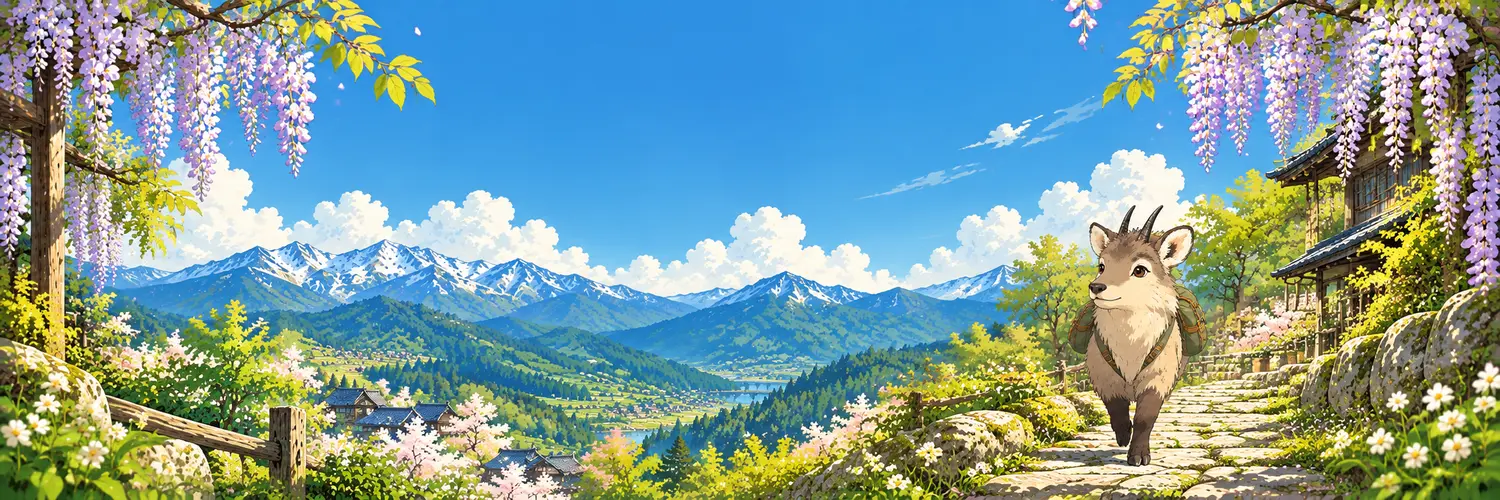
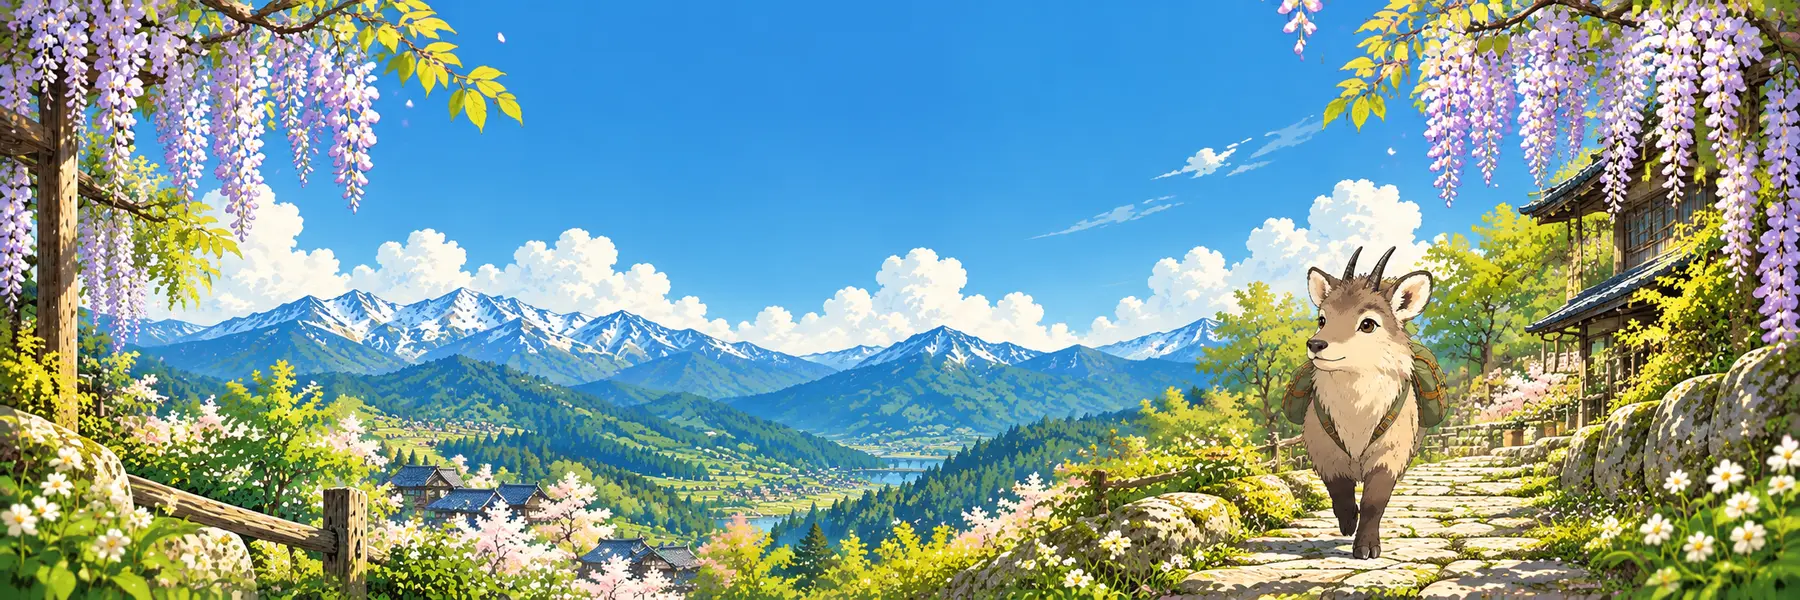
ng3: 換上新版小驚喜、天氣與春日裝飾圖包，標頭插畫完整顯示
- 小驚喜 8 張新圖（探頭與卡片配圖）
- 天氣圖依天氣代碼分晴、晴時多雲、陰、霧、小雨、雨、風、雪、雷雨；早晚偏冷另外提醒
- 裝飾改用圖包：標題兩側垂掛紫藤、主題小字旁遠山、搜尋框紫藤小枝
- 標頭插畫不再裁切；拿掉行程頁天氣卡與出發準備卡（只留在指南頁）
- 日期列只留日期與星期

Claude-Session: https://claude.ai/code/session_01PcAh1eZtA4ZhN7KdjXudwF

diff --git a/app.js b/app.js
@@ -1474,13 +1474,12 @@ document.addEventListener('visibilitychange',()=>{
 
 function renderDayChips(){
   const today=tripTodayIndex();
-  dayScroll.innerHTML = `<button type="button" class="day-chip ng-today${today>=0?' live':''}" onclick="goToToday()"><div class="d">今日</div><div class="m">${today>=0?'D'+days[today].dayNum:'—'}</div></button>`
-    +days.map((d,i)=>!inPlan(i)?'':`<button type="button" class="day-chip ${i===activeDay?'active':''} ${i===today?'is-today':''}" data-i="${i}" onclick="setActiveDay(${i})" aria-pressed="${i===activeDay}"><div class="d">${d.date}</div><div class="m">D${d.dayNum}・週${d.weekday}</div></button>`).join('');
+  dayScroll.innerHTML = `<button type="button" class="day-chip ng-today${today>=0?' live':''}" onclick="goToToday()"><div class="d">今日</div><div class="m">${today>=0?days[today].date:'—'}</div></button>`
+    +days.map((d,i)=>!inPlan(i)?'':`<button type="button" class="day-chip ${i===activeDay?'active':''} ${i===today?'is-today':''}" data-i="${i}" onclick="setActiveDay(${i})" aria-pressed="${i===activeDay}"><div class="d">${d.date}</div><div class="m">週${d.weekday}</div></button>`).join('');
   const act=dayScroll.querySelector('.day-chip.active');
   if(act)requestAnimationFrame(()=>{const r=act.offsetLeft-(dayScroll.clientWidth-act.offsetWidth)/2;dayScroll.scrollTo({left:Math.max(0,r),behavior:'auto'});});
   if(typeof renderMarksBar==='function'&&typeof marksStore!=='undefined')renderMarksBar();
   if(typeof renderDayTools==='function')renderDayTools();
-  if(typeof renderHomeWx==='function'&&document.getElementById('homeWx'))renderHomeWx();
 }
 
 let activeSubTabStore = {}; /* dayIdx -> 'main' | 'transport' | 'more' | 'routemap' */
@@ -1899,15 +1898,22 @@ const WMO = {
 };
 function wmoInfo(code){ return WMO[code] || ['🌡','—']; }
 /* 小羚羊天氣圖（依天氣代碼切換：晴、多雲／陰、雨） */
-const WX_IMG={clear:['sunny','晴'],cloudy:['cloudy','多雲'],overcast:['cloudy','陰'],rain:['rainy','雨']};
+const WX_IMG={sunny:['sunny','晴天'],partly:['partly-cloudy','晴時多雲'],cloudy:['cloudy','陰天'],fog:['fog','起霧'],drizzle:['drizzle','小雨'],rain:['rain','下雨'],snow:['snow','下雪'],thunder:['thunderstorm','雷雨'],wind:['wind','有風']};
 function wxKind(code,wind){
-  code=Number(code);
-  if((code>=51&&code<=67)||(code>=71&&code<=86)||code>=95)return 'rain';
-  if(code===3||code===45||code===48)return 'overcast';
-  if(code===2)return 'cloudy';
-  return 'clear';
+  code=Number(code);wind=Number(wind)||0;
+  if(code>=95)return 'thunder';
+  if([71,73,75,77,85,86].includes(code))return 'snow';
+  if([61,63,65,66,67,80,81,82].includes(code))return 'rain';
+  if(code>=51&&code<=57)return 'drizzle';
+  if(code===45||code===48)return 'fog';
+  if(wind>=30)return 'wind';
+  if(code===3)return 'cloudy';
+  if(code===2)return 'partly';
+  return 'sunny';
 }
-function wxImgHTML(code,wind,cls='wx-img'){const [f,l]=WX_IMG[wxKind(code,wind)];return `<img class="${cls}" src="images/weather/serow-${f}.webp" alt="${l}" title="${l}" width="64" height="64" loading="lazy" decoding="async">`;}
+function wxImgHTML(code,wind,cls='wx-img'){const [f,l]=WX_IMG[wxKind(code,wind)];return `<img class="${cls}" src="images/weather/weather-${f}.webp" alt="${l}" title="${l}" width="64" height="64" loading="lazy" decoding="async">`;}
+/* 早晚偏冷是溫度提醒，不取代晴雨圖：最低溫 8°C 以下時，在穿搭旁加一張 */
+function chillyHTML(min){return min!=null&&min<=8?`<img class="wx-chilly" src="images/weather/weather-chilly.webp" alt="早晚偏冷" title="早晚偏冷" width="56" height="56" loading="lazy">`:'';}
 function feelsText(cw){return cw&&cw.apparent_temperature!=null?`體感 ${Math.round(cw.apparent_temperature)}°`:'';}
 
 function getDynamicTip(temp, code) {
@@ -1963,7 +1969,6 @@ async function fetchWeatherFor(k, attempt){
     }
     clearTimeout(timeout);
     liveWeatherCache[k] = { data, error:null, stale:false, fetchedAt: Date.now() };
-    setTimeout(()=>{if(typeof renderHomeWx==='function')renderHomeWx();},0);
     saveWeatherCacheEntry(k, liveWeatherCache[k]);
   }catch(err){
     clearTimeout(timeout);
@@ -2087,7 +2092,7 @@ function renderOneLiveCity(k){
         </div>
         <div class="weather-tenki-row"><a href="${TENKI_LINKS[k]||'https://tenki.jp/'}" target="_blank" rel="noopener">開啟 tenki.jp ${CITIES[k].label}預報（逐時・10 天）</a></div>
         <div class="weather-travel-note"><b>當地提醒</b><span>${MW_TIMES[k]}</span></div>
-        <div class="weather-wear-note"><b>穿搭</b><span>${tip}</span></div>
+        <div class="weather-wear-note">${chillyHTML(data.daily&&data.daily.temperature_2m_min?Math.round(data.daily.temperature_2m_min[0]):null)}<b>穿搭</b><span>${tip}${data.daily&&data.daily.temperature_2m_min&&data.daily.temperature_2m_min[0]<=8?' 🧥 早晚偏冷，多帶一件外套。':''}</span></div>
       </div>
     </details>
   `;
@@ -2494,7 +2499,7 @@ window.addEventListener('offline', updateNetStatus);
 /* ============ Service Worker（離線快取整個網頁） ============ */
 if (navigator.serviceWorker) {
   window.addEventListener('load', () => {
-    navigator.serviceWorker.register('./sw.js?v=ng2').then(()=>navigator.serviceWorker.ready).catch(()=>{});
+    navigator.serviceWorker.register('./sw.js?v=ng3').then(()=>navigator.serviceWorker.ready).catch(()=>{});
   });
 }
 document.addEventListener('error',e=>{if(e.target?.tagName==='IMG')imageErrorFallback(e.target);},true);
@@ -2994,7 +2999,7 @@ const TENKI_LINKS={
 /* =====================================================================
    v48：收藏／預約狀態／提醒、自駕即時路況、版本與同步比對
    ===================================================================== */
-const APP_VERSION='ng2-2026-10-11';
+const APP_VERSION='ng3-2026-10-11';
 
 /* ---------- 收藏 ★／預約狀態／提醒 ---------- */
 let marksStore=(()=>{try{const v=JSON.parse(localStorage.getItem('nagano_marks'));return v&&typeof v==='object'&&!Array.isArray(v)?v:{};}catch(e){return {};}})();
@@ -3681,7 +3686,7 @@ function critterBusy(){
   return document.hidden||reducedMotion()||document.body.classList.contains('mama-open')||document.body.classList.contains('family-locked')||!!document.getElementById('formModal')||!!document.getElementById('toolsSheet')||!!document.getElementById('surpriseCard')||!!document.getElementById('spotEditModal')?.classList.contains('active');
 }
 /* ng2：角落探頭用整隻小羚羊（有道具） */
-const PEEK_IMGS=['welcome','peek','point','camera','guide','eat','shop','relaxed'].map(n=>`images/sp-${n}.webp`);
+const PEEK_IMGS=['wave','peek','gift','laugh','camera','tea','wisteria','guide'].map(n=>`images/sp-${n}.webp`);
 function pickCritter(){let img,n=0;do{img=PEEK_IMGS[Math.floor(Math.random()*PEEK_IMGS.length)];n++;}while(img===critter.last&&n<6);critter.last=img;return img;}
 function leafBurst(x,y){
   const l=critterLayer();
@@ -4527,7 +4532,7 @@ function transportAddBarHTML(dayIdx){
 }
 
 /* ---------- 新插圖用在合適的地方 ---------- */
-const SURPRISE_ART={tip:'images/sp-guide.webp',joke:'images/sp-happy.webp',care:'images/sp-relaxed.webp',photo:'images/sp-camera.webp'};
+const SURPRISE_ART={tip:'images/sp-guide.webp',joke:'images/sp-laugh.webp',care:'images/sp-tea.webp',photo:'images/sp-camera.webp'};
 (function extendArt(){
   CRITTER_IMGS.push(ART.suitcase,ART.photo,ART.heart,ART.rain,ART.search,ART.car);
 })();
@@ -4810,16 +4815,8 @@ function deleteTodo(id,skipConfirm){
 }
 /* 行程頁頂端：出發前才顯示「出發前待辦還有幾項」，點了直接跳到清單 */
 function renderTodoBanner(){
-  const host=document.getElementById('view-itinerary');if(!host)return;
-  let el=document.getElementById('todoBanner');
-  const left=todoData.filter(t=>!t.done);
-  const beforeTrip=new Date()<new Date(2027,3,24);
-  if(!beforeTrip||!left.length){el?.remove();return;}
-  const late=left.filter(t=>{const n=todoDaysLeft(t.due);return n!=null&&n<=3;}).length;
-  const home=ensureHomeCards();
-  if(!el){el=document.createElement('button');el.type='button';el.id='todoBanner';el.className='todo-banner ng-card';el.onclick=goToTodos;}
-  if(el.parentNode!==home)home.appendChild(el);
-  el.innerHTML=`<img class="ng-deco ng-deco-leaf" src="images/deco/wisteria-leaf.webp" alt="" aria-hidden="true"><span class="tb-ic"><svg viewBox="0 0 24 24" width="26" height="26" aria-hidden="true" fill="none" stroke="currentColor" stroke-width="2.6" stroke-linecap="round" stroke-linejoin="round"><path d="M5 12.5l4.5 4.5L19 7.5"/></svg></span><span class="tb-txt"><b>出發準備</b><small>還有 ${left.length} 項待辦${late?`・${late} 項快到期`:''}</small></span><img class="ng-deco ng-deco-side" src="images/deco/wisteria-side.webp" alt="" aria-hidden="true"><em>›</em>`;
+  /* ng3：出發準備只放在指南頁，行程頁不顯示提示卡 */
+  document.getElementById('todoBanner')?.remove();
 }
 function goToTodos(){const sec=document.getElementById('todoSection');if(sec)sec.open=true;setTab('guide');setTimeout(()=>document.getElementById('todoSection')?.scrollIntoView({behavior:'smooth',block:'start'}),80);}
 
@@ -4970,7 +4967,7 @@ renderRouteTimeline();
 
 /* ============ 兩版行程切換（Lomä 山湖版／藤井莊溪谷版） ============
    只換顯示哪 10 天；兩版各自的筆記、照片、自訂景點都保留，切回去還在。選擇只記在這支手機上。 */
-const MTN_SVG='<svg class="ps-mtn" viewBox="0 0 64 28" aria-hidden="true"><path d="M2 27L19 7l7 8 9-12 17 24z" fill="#C9B8E6"/><path d="M30 27l12-14 6 6 6-5 9 13z" fill="#B8A3DC"/><path d="M15 11.6L19 7l3.6 4.2-2.1-1-1.5 1.4-1.7-1.3zM31.6 7.4L35 3l3.3 4.6-1.9-.8-1.5 1.2-1.4-1.1z" fill="#fff"/></svg>';
+const MTN_SVG='<img class="ps-mtn" src="images/deco/mountains-snowcap.webp" alt="" aria-hidden="true">';
 const PLAN_GMAPS={
   loma:'https://www.google.com/maps/dir/Narita+Airport/Takasaki+Station/Fujinosakuoka+Fujioka/Nagano+Station/Lake+Nojiri/Imoriike+Myoko/Togakushi+Shrine+Chusha/Obuse/Yokohama+Station/Haneda+Airport+Terminal+3',
   fujiiso:'https://www.google.com/maps/dir/Narita+Airport/Takasaki+Station/Fujinosakuoka+Fujioka/Nagano+Station/Yamada+Onsen+Takayama+Nagano/Obuse/Togakushi+Shrine+Chusha/Yokohama+Station/Haneda+Airport+Terminal+3'
@@ -4993,39 +4990,8 @@ function setPlan(p){
   showToast(`已切換到${PLANS[p].label}`);
 }
 renderPlanSwitch();
-/* ============ ng2：首頁卡片（天氣摘要、出發準備），裝飾小山小花 ============ */
-function ensureHomeCards(){
-  let h=document.getElementById('homeCards');
-  if(!h){h=document.createElement('div');h.id='homeCards';h.className='home-cards';const v=document.getElementById('view-itinerary');const sb=v&&v.querySelector('.mobile-global-search');if(v)v.insertBefore(h,sb||v.firstChild);}
-  return h;
-}
-function homeWxDay(){const t=tripTodayIndex();return t>=0?t:(typeof activeDay==='number'&&days[activeDay]?activeDay:planDays()[0]);}
-let _homeWxFetching=false;
-function renderHomeWx(){
-  const home=ensureHomeCards();if(!home)return;
-  let el=document.getElementById('homeWx');
-  if(!el){el=document.createElement('button');el.type='button';el.id='homeWx';el.className='home-wx ng-card';el.onclick=()=>setTab('weather');home.prepend(el);}
-  const di=homeWxDay(),k=(DAY_CITIES[di]||['Nagano'])[0],c=CITIES[k]||CITIES.Nagano;
-  const e=weatherEntryFor(k),data=e&&e.data,cw=data&&data.current,dl=data&&data.daily;
-  const place=c.label.split('／')[0];
-  const when=e&&e.fetchedAt?new Date(e.fetchedAt).toLocaleString('zh-TW',{hour12:false,month:'numeric',day:'numeric',hour:'2-digit',minute:'2-digit'}):'';
-  const fresh=e&&e.fetchedAt&&!e.stale&&Date.now()-e.fetchedAt<60*60*1000;
-  const badge=cw?(fresh?'<span class="hw-badge live">即時</span>':`<span class="hw-badge">${escHtml(when)}</span>`):'<span class="hw-badge">尚未更新</span>';
-  const art=cw?wxImgHTML(cw.weather_code,cw.wind_speed_10m,'hw-art'):'<img class="hw-art" src="images/weather/serow-sunny.webp" alt="" width="64" height="64">';
-  let main,sub;
-  if(cw){
-    const [,desc]=wmoInfo(cw.weather_code);
-    main=`${escHtml(desc)} <b>${Math.round(cw.temperature_2m)}°</b>`;
-    const lo=dl&&dl.temperature_2m_min?Math.round(dl.temperature_2m_min[0]):null,hi=dl&&dl.temperature_2m_max?Math.round(dl.temperature_2m_max[0]):null;
-    const pp=dl&&dl.precipitation_probability_max&&dl.precipitation_probability_max[0]!=null?dl.precipitation_probability_max[0]:null;
-    sub=[lo!=null&&hi!=null?`${lo}° / ${hi}°`:'',pp!=null?`降雨 ${pp}%`:''].filter(Boolean).join(' · ')||(cw.apparent_temperature!=null?`體感 ${Math.round(cw.apparent_temperature)}°`:'');
-  }else{main='看看今天的天氣';sub=navigator.onLine?'讀取中…':'目前離線，連上網路後再看';}
-  el.innerHTML=`<span class="hw-pic">${art}</span><span class="hw-txt"><span class="hw-place">${escHtml(place)}天氣${badge}</span><span class="hw-main">${main}</span><span class="hw-sub">${escHtml(sub)}</span></span><img class="ng-deco ng-deco-hang" src="images/deco/wisteria-hang.webp" alt="" aria-hidden="true"><em class="hw-go">›</em>`;
-  el.setAttribute('aria-label',`${place}天氣，點了看完整天氣`);
-  const old=!e||!e.fetchedAt||Date.now()-e.fetchedAt>30*60*1000;
-  if(old&&navigator.onLine&&!_homeWxFetching){_homeWxFetching=true;fetchWeatherFor(k,0).finally(()=>{_homeWxFetching=false;});}
-}
-setTimeout(()=>{try{renderHomeWx();renderTodoBanner();}catch(e){console.warn(e)}},0);
+/* ng3：出發準備只放在指南頁，行程頁不再顯示首頁卡片 */
+setTimeout(()=>{try{renderTodoBanner();}catch(e){console.warn(e)}},0);
 
 /* hk9：單機預覽模式啟動時，把以前存在 localStorage 的 Base64 照片搬進 Cache Storage，釋放空間 */
 if(!CLOUD_CONFIGURED&&'caches' in window){

diff --git a/sw.js b/sw.js
@@ -1,11 +1,11 @@
 /* 長野春旅行程：App Shell、圖片與已瀏覽內容離線快取 */
-const CACHE_VERSION='nagano-trip-ng2';
+const CACHE_VERSION='nagano-trip-ng3';
 const SHELL_CACHE=`nagano-shell-${CACHE_VERSION}`;
 const RUNTIME_CACHE=`nagano-runtime-${CACHE_VERSION}`;
 /* 圖片快取獨立於版本：更新網站不會清掉已下載的圖片，也不必重新下載 */
 const IMAGE_CACHE='nagano-images-persist';
 const LOCAL_MEDIA_CACHE='nagano-local-media';
-const SHELL=['./', './index.html', './app.js', './style.css', './splash.css', './splash.js', './manifest.webmanifest', './config.js', './fonts/ChenYuluoyan-Thin-sub.woff2', './images/apple-touch-icon.png', './images/art-lodging.webp', './images/art-route.webp', './images/art-shopping.webp', './images/day00.webp', './images/day01.webp', './images/day02.webp', './images/day03.webp', './images/day04.webp', './images/day05.webp', './images/day06.webp', './images/day07.webp', './images/day08.webp', './images/day09.webp', './images/day10.webp', './images/day11.webp', './images/day12.webp', './images/day13.webp', './images/favicon.png', './images/header-hero.webp', './images/header.webp', './images/icon-192.png', './images/icon-512.png', './images/icon-maskable-512.png', './images/logo.webp', './images/mood-accomplished.webp', './images/mood-amazed.webp', './images/mood-happy.webp', './images/mood-rainy.webp', './images/mood-relaxed.webp', './images/mood-satisfied.webp', './images/mood-sleepy.webp', './images/mood-tired.webp', './images/nav-food.webp', './images/nav-guide.webp', './images/nav-itinerary.webp', './images/nav-lodging.webp', './images/nav-route.webp', './images/nav-shopping.webp', './images/nav-weather.webp', './images/overview-fujiiso.webp', './images/overview-loma.webp', './images/scene-day00.webp', './images/scene-day01.webp', './images/scene-day02.webp', './images/scene-day03.webp', './images/scene-day04.webp', './images/scene-day05.webp', './images/scene-day06.webp', './images/scene-day07.webp', './images/scene-day08.webp', './images/scene-day09.webp', './images/scene-day10.webp', './images/scene-day11.webp', './images/scene-day12.webp', './images/scene-day13.webp', './images/serow-camera.webp', './images/serow-guide.webp', './images/serow-peek.webp', './images/serow-point.webp', './images/serow-rainy.webp', './images/serow-satisfied.webp', './images/serow-shop.webp', './images/serow-sleepy.webp', './images/serow-welcome.webp', './images/sp-camera.webp', './images/sp-eat.webp', './images/sp-guide.webp', './images/sp-happy.webp', './images/sp-peek.webp', './images/sp-point.webp', './images/sp-relaxed.webp', './images/sp-shop.webp', './images/sp-welcome.webp', './images/splash-serow-camera.webp', './images/splash-serow-point.webp', './images/splash-serow-welcome.webp', './images/weather/serow-cloudy.webp', './images/weather/serow-rainy.webp', './images/weather/serow-sunny.webp', './images/deco/logo-serow.webp', './images/deco/wisteria-hang.webp', './images/deco/wisteria-leaf.webp', './images/deco/wisteria-side.webp'];
+const SHELL=['./', './index.html', './app.js', './style.css', './splash.css', './splash.js', './manifest.webmanifest', './config.js', './fonts/ChenYuluoyan-Thin-sub.woff2', './images/apple-touch-icon.png', './images/art-lodging.webp', './images/art-route.webp', './images/art-shopping.webp', './images/day00.webp', './images/day01.webp', './images/day02.webp', './images/day03.webp', './images/day04.webp', './images/day05.webp', './images/day06.webp', './images/day07.webp', './images/day08.webp', './images/day09.webp', './images/day10.webp', './images/day11.webp', './images/day12.webp', './images/day13.webp', './images/favicon.png', './images/header.webp', './images/icon-192.png', './images/icon-512.png', './images/icon-maskable-512.png', './images/logo.webp', './images/mood-accomplished.webp', './images/mood-amazed.webp', './images/mood-happy.webp', './images/mood-rainy.webp', './images/mood-relaxed.webp', './images/mood-satisfied.webp', './images/mood-sleepy.webp', './images/mood-tired.webp', './images/nav-food.webp', './images/nav-guide.webp', './images/nav-itinerary.webp', './images/nav-lodging.webp', './images/nav-route.webp', './images/nav-shopping.webp', './images/nav-weather.webp', './images/overview-fujiiso.webp', './images/overview-loma.webp', './images/scene-day00.webp', './images/scene-day01.webp', './images/scene-day02.webp', './images/scene-day03.webp', './images/scene-day04.webp', './images/scene-day05.webp', './images/scene-day06.webp', './images/scene-day07.webp', './images/scene-day08.webp', './images/scene-day09.webp', './images/scene-day10.webp', './images/scene-day11.webp', './images/scene-day12.webp', './images/scene-day13.webp', './images/serow-camera.webp', './images/serow-guide.webp', './images/serow-peek.webp', './images/serow-point.webp', './images/serow-rainy.webp', './images/serow-satisfied.webp', './images/serow-shop.webp', './images/serow-sleepy.webp', './images/serow-welcome.webp', './images/sp-camera.webp', './images/sp-gift.webp', './images/sp-guide.webp', './images/sp-laugh.webp', './images/sp-peek.webp', './images/sp-tea.webp', './images/sp-wave.webp', './images/sp-wisteria.webp', './images/splash-serow-camera.webp', './images/splash-serow-point.webp', './images/splash-serow-welcome.webp', './images/weather/weather-chilly.webp', './images/weather/weather-cloudy.webp', './images/weather/weather-drizzle.webp', './images/weather/weather-fog.webp', './images/weather/weather-partly-cloudy.webp', './images/weather/weather-rain.webp', './images/weather/weather-snow.webp', './images/weather/weather-sunny.webp', './images/weather/weather-thunderstorm.webp', './images/weather/weather-wind.webp', './images/deco/cabin.webp', './images/deco/leaves-branch.webp', './images/deco/mountains-green.webp', './images/deco/mountains-snowcap.webp', './images/deco/petals-floating.webp', './images/deco/tea-cup.webp', './images/deco/wildflowers.webp', './images/deco/wisteria-divider.webp', './images/deco/wisteria-hanging.webp', './images/deco/wisteria-sprig.webp'];
 
 self.addEventListener('install',event=>{
   self.skipWaiting();

diff --git a/index.html b/index.html
@@ -32,8 +32,8 @@ window.addEventListener('load',function(){setTimeout(function(){if(window.__appR
 <link rel="preconnect" href="https://fonts.googleapis.com">
 <link href="https://fonts.googleapis.com/css2?family=LXGW+WenKai+TC:wght@300;400;700&family=Caveat:wght@500;700&family=Zen+Kaku+Gothic+New:wght@400;500;700;900&display=swap" rel="stylesheet">
 <link rel="preload" href="fonts/ChenYuluoyan-Thin-sub.woff2" as="font" type="font/woff2" crossorigin>
-<link rel="stylesheet" href="style.css?v=ng2">
-<link rel="stylesheet" href="splash.css?v=ng2">
+<link rel="stylesheet" href="style.css?v=ng3">
+<link rel="stylesheet" href="splash.css?v=ng3">
 </head>
 <body class="family-locked">
 <div id="naganoSplash" class="splash" hidden aria-label="春光•藤花•山色 載入中">
@@ -49,7 +49,7 @@ window.addEventListener('load',function(){setTimeout(function(){if(window.__appR
     <div class="splash__title"><strong>春光•藤花•山色</strong><span>背上小背包，去山裡住幾天</span></div>
   </div>
 </div>
-<script src="splash.js?v=ng2"></script>
+<script src="splash.js?v=ng3"></script>
 
 <div id="familyGate" class="family-gate" aria-hidden="false">
   <div class="family-gate-card">
@@ -91,9 +91,8 @@ window.addEventListener('load',function(){setTimeout(function(){if(window.__appR
 
   <!-- Header -->
   <div class="header ng-hero" id="main-header">
-    <img class="ng-hero-img" src="images/header-hero.webp" alt="" width="1472" height="724" decoding="async">
     <div class="header-top">
-      <img class="ng-logo" src="images/deco/logo-serow.webp" alt="" width="56" height="56">
+      <img class="ng-logo" src="images/sp-wave.webp" alt="" width="56" height="56">
       <div class="header-status">
         <div class="net-status" id="netStatus"><span class="net-dot online"></span><span class="net-txt">線上</span></div>
         <div class="cloud-sync-status" id="cloudSyncStatus">☁ 同步中</div>
@@ -105,11 +104,14 @@ window.addEventListener('load',function(){setTimeout(function(){if(window.__appR
         <button type="button" class="ht-btn" onclick="openToolsSheet()" aria-label="工具與設定"><svg viewBox="0 0 24 24" width="22" height="22" aria-hidden="true" fill="none" stroke="currentColor" stroke-width="1.7" stroke-linecap="round" stroke-linejoin="round"><circle cx="12" cy="12" r="3"/><path d="M19.4 15a1.6 1.6 0 0 0 .3 1.8l.1.1a2 2 0 1 1-2.8 2.8l-.1-.1a1.6 1.6 0 0 0-1.8-.3 1.6 1.6 0 0 0-1 1.5V21a2 2 0 1 1-4 0v-.1a1.6 1.6 0 0 0-1-1.5 1.6 1.6 0 0 0-1.8.3l-.1.1a2 2 0 1 1-2.8-2.8l.1-.1a1.6 1.6 0 0 0 .3-1.8 1.6 1.6 0 0 0-1.5-1H3a2 2 0 1 1 0-4h.1a1.6 1.6 0 0 0 1.5-1 1.6 1.6 0 0 0-.3-1.8l-.1-.1a2 2 0 1 1 2.8-2.8l.1.1a1.6 1.6 0 0 0 1.8.3H9a1.6 1.6 0 0 0 1-1.5V3a2 2 0 1 1 4 0v.1a1.6 1.6 0 0 0 1 1.5 1.6 1.6 0 0 0 1.8-.3l.1-.1a2 2 0 1 1 2.8 2.8l-.1.1a1.6 1.6 0 0 0-.3 1.8V9a1.6 1.6 0 0 0 1.5 1H21a2 2 0 1 1 0 4h-.1a1.6 1.6 0 0 0-1.5 1z"/></svg></button>
       </div>
     </div>
+    <img class="ng-hang ng-hang-l" src="images/deco/wisteria-hanging.webp" alt="" aria-hidden="true">
+    <img class="ng-hang ng-hang-r" src="images/deco/wisteria-hanging.webp" alt="" aria-hidden="true">
     <div class="header-title">
       <div class="eyebrow">A Little Serow’s Spring Journey</div>
       <h1>春光•藤花•山色</h1>
       <p class="ng-hero-sub">背上小背包，去山裡住幾天。</p>
     </div>
+    <img class="ng-hero-img" src="images/header.webp" alt="" width="1800" height="600" decoding="async">
     <div class="header-foot"><div class="dates"><svg viewBox="0 0 24 24" width="18" height="18" aria-hidden="true"><path d="M5 19c2-8 7-12 14-14-1 7-5 12-12 13" fill="#B4CF83" stroke="#4E7A68" stroke-width="1.3" stroke-linejoin="round"/><path d="M5 19c3-4 6-7 10-10" fill="none" stroke="#4E7A68" stroke-width="1.3" stroke-linecap="round"/></svg>2027.04.24 — 05.03 · 10天9夜</div></div>
     <div class="preview-note">單機預覽：尚未連接家人同步，資料只存在這台裝置</div>
     <span id="spotCount" hidden>--</span>
@@ -120,7 +122,7 @@ window.addEventListener('load',function(){setTimeout(function(){if(window.__appR
   <div class="view active" id="view-itinerary">
     <div class="mobile-global-search">
       <div class="global-search-input-wrap ng-search"><span>⌕</span><input id="globalSearchMobile" type="search" placeholder="搜尋行程與景點" oninput="runGlobalSearch(this.value)"></div>
-      <img class="ng-deco ng-deco-search" src="images/deco/wisteria-side.webp" alt="" aria-hidden="true">
+      <img class="ng-deco ng-deco-search" src="images/deco/wisteria-sprig.webp" alt="" aria-hidden="true">
       <div id="globalSearchResultsMobile" class="global-search-results"></div>
     </div>
     <div class="day-tools" id="dayTools" role="tablist" aria-label="當日工具"></div>
@@ -346,8 +348,8 @@ window.addEventListener('load',function(){setTimeout(function(){if(window.__appR
 
 <input type="file" id="restoreFile" accept="application/json,.json" style="display:none" onchange="restoreBackupFile(event)">
 
-<script src="config.js?v=ng2"></script>
-<script src="app.js?v=ng2"></script>
+<script src="config.js?v=ng3"></script>
+<script src="app.js?v=ng3"></script>
 
 
 

diff --git a/style.css b/style.css
@@ -2759,3 +2759,24 @@ html body.large-text .hw-pic .hw-art{width:74px;height:74px;}
 html body.large-text .hw-txt{padding-left:10px;}
 html body.large-text .todo-banner.ng-card{grid-template-columns:50px 1fr 14px!important;padding-left:16px!important;}
 html body.large-text .todo-banner.ng-card .tb-ic{width:46px;height:46px;}
+
+/* =====================================================================
+   ng3：標頭插畫完整顯示（不裁切，兩側紫藤都看得到）、標題兩側垂掛紫藤（圖包）、新天氣與小驚喜圖
+   ===================================================================== */
+html body .header.ng-hero{min-height:0!important;padding:calc(10px + env(safe-area-inset-top,0px)) 14px 14px!important;background:linear-gradient(180deg,#FFFDF8 0,var(--paper) 100%)!important;}
+html body .ng-hero .ng-hero-img{position:relative!important;inset:auto!important;top:auto!important;bottom:auto!important;display:block!important;width:calc(100% + 28px)!important;max-width:none!important;height:auto!important;aspect-ratio:3/1;object-fit:contain!important;object-position:center!important;margin:10px -14px 0!important;z-index:1;-webkit-mask-image:linear-gradient(180deg,transparent 0,#000 12%,#000 88%,transparent 100%)!important;mask-image:linear-gradient(180deg,transparent 0,#000 12%,#000 88%,transparent 100%)!important;}
+html body .ng-hero .header-foot{margin-top:-20px!important;}
+.ng-hang{position:absolute;top:44px;width:62px;height:auto;z-index:1;pointer-events:none;user-select:none;opacity:.95;}
+.ng-hang-l{left:-6px;transform:scaleX(-1);}
+.ng-hang-r{right:-6px;}
+html body .ng-hero .header-title{padding:0 40px!important;}
+html body .ng-hero h1{font-size:min(10.4vw,44px)!important;}
+.ng-logo{width:50px!important;height:50px!important;}
+.ps-mtn{width:52px!important;height:auto!important;}
+.ng-deco-search{right:18px!important;top:6px!important;width:40px!important;transform:none!important;}
+.weather-wear-note{position:relative;}
+.weather-wear-note .wx-chilly{float:right;width:56px;height:56px;object-fit:contain;margin:-4px 0 0 8px;}
+html body.large-text .ng-hero h1{font-size:min(10.4vw,44px)!important;}
+.ng-hang{top:58px!important;}
+html body .weather-wear-note:has(.wx-chilly){padding-right:74px!important;min-height:72px;}
+html body .weather-wear-note .wx-chilly{position:absolute;float:none;right:10px;top:50%;transform:translateY(-50%);margin:0;}

diff --git a/README.md b/README.md
@@ -4,6 +4,21 @@
 
 由北海道「雪羽慢旅 hk28」改版而來，北海道與京都網站之前調整過的功能全部沿用：家人同步、離線 PWA、開場動畫、每日交通、MaMa 筆記、小驚喜、收藏與預約、出發前待辦、每日回顧、標點處換行、字放大、手機上放大的按鈕，以及只保留用到的字、瘦身過的手寫標題字型。內容與風格換成長野春天。
 
+## ng3（換新圖包、標頭插畫完整顯示）
+
+1. **小驚喜圖**換成新版 8 張：打招呼、探頭、送禮物、說笑話、拍照、喝茶休息、賞藤花、小知識。角落探頭會輪流出現；小知識卡、笑話卡、叮嚀卡、照片卡各配一張。
+2. **天氣圖**換成新版：
+   - 依天氣代碼顯示晴天、晴時多雲、陰天、起霧、小雨、下雨、有風（風速 30 km/h 以上）。
+   - 雷雨與下雪只在預報真的是雷雨或下雪時才出現。
+   - 「早晚偏冷」是溫度提醒，不取代晴雨圖：當天最低溫 8°C 以下時，加在穿搭提醒旁。
+3. **裝飾**改用春日裝飾圖包，拿掉之前自己從插畫剪下來的紫藤：
+   - 標題兩側：垂掛紫藤。
+   - 主題小字旁：薄雪遠山。
+   - 搜尋框：紫藤小枝。
+4. **標頭插畫**完整顯示，不再裁切，左右兩側的紫藤都看得到；日期膠囊壓在插畫下緣。
+5. 行程頁拿掉天氣卡；**出發準備**只放在指南頁。
+6. 日期列只留日期和星期（例：4/24、週六），拿掉 D1。
+
 ## ng2（照設計圖改首頁，並套用挪威網站的修改）
 
 1. **標題**：改成一行「春光•藤花•山色」，上面一行英文小字，下面是副標「背上小背包，去山裡住幾天。」。
@@ -71,7 +86,7 @@
   - 11–13：5/1–5/3，兩版共用
 - 總覽插畫：`images/overview-loma.webp`、`images/overview-fujiiso.webp`
 - 小驚喜：內容在 `app.js` 的 `SURPRISE_SEED`；角落探頭的小羚羊是 `images/sp-*.webp`
-- 裝飾小花：`images/deco/`（從原插畫剪下的紫藤）；首頁標頭插畫：`images/header-hero.webp`
+- 裝飾：`images/deco/`（春日裝飾圖包）；天氣圖：`images/weather/weather-*.webp`；標頭插畫：`images/header.webp`
 - 手寫標題字型：`fonts/ChenYuluoyan-Thin-sub.woff2`，辰宇落雁體，SIL OFL 1.1，只保留網站用到的字
 
 每日鐘點為建議節奏，車程為估算，不是已訂班次。2027 花況、活動、票價、開山及班表需出發前確認。
